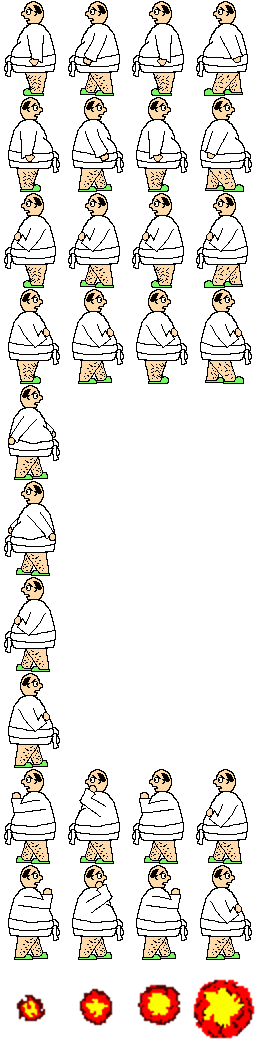
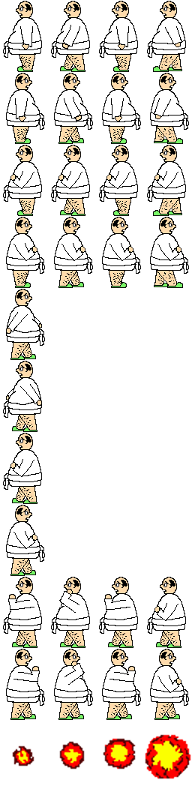
scaled character size smaller

diff --git a/js/play.js b/js/play.js
@@ -20,7 +20,7 @@ var playState = {
         game.load.image('controls_button','../assets/Controls_Button_Ingame.png');
         game.load.image('main_menu_button','../assets/Main_Menu_Button_Ingame.png');
 
-        game.load.spritesheet('player', '../assets/player.png', 64, 96);
+        game.load.spritesheet('player', '../assets/player.png', 48, 72);
         
         level = loadLevel( game, 'forest_level_json', 'forest_level_tilemap');
     },
